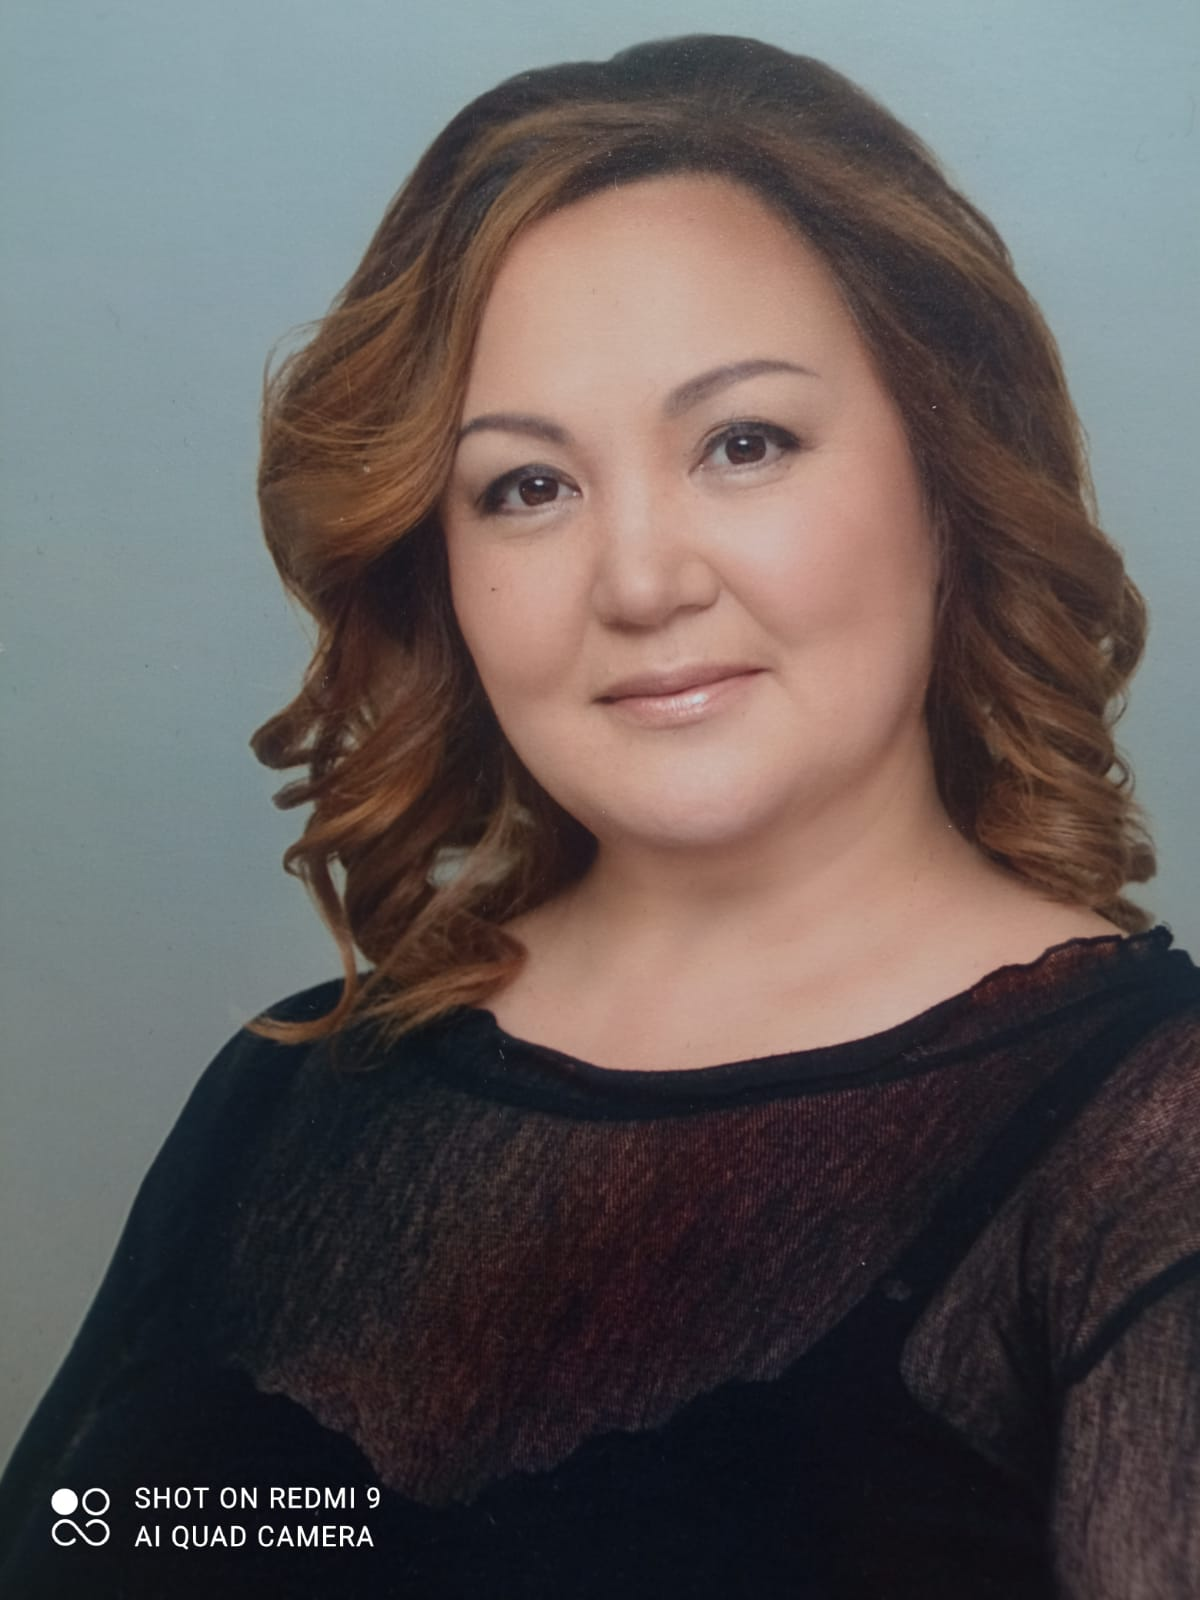
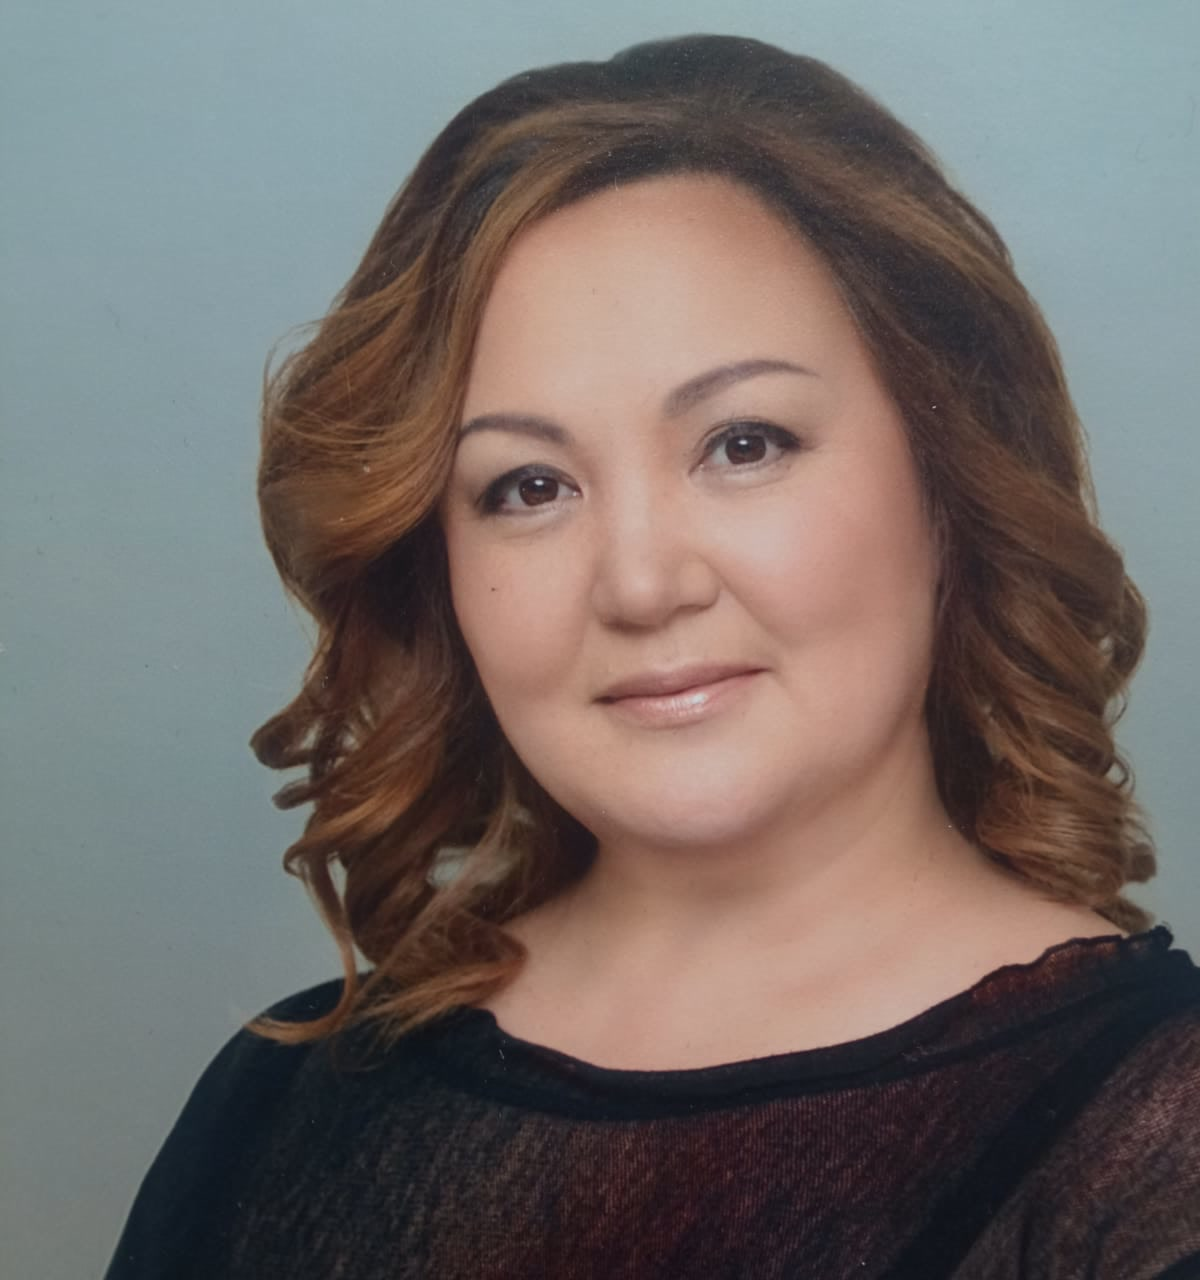
Show Yakutsk time and crop the hero portrait
Format the event clock in Asia/Yakutsk so 18:00 does not become 09:00
in UTC, and crop the opening photo so the camera watermark is gone.

diff --git a/script.js b/script.js
@@ -54,21 +54,56 @@ function pad(n) {
   return String(n).padStart(2, "0");
 }
 
+function yakutskParts(date) {
+  if (Number.isNaN(date.getTime())) return null;
+  const parts = new Intl.DateTimeFormat("en-GB", {
+    timeZone: "Asia/Yakutsk",
+    year: "numeric",
+    month: "numeric",
+    day: "numeric",
+    hour: "2-digit",
+    minute: "2-digit",
+    weekday: "long",
+    hourCycle: "h23",
+  }).formatToParts(date);
+  const get = (type) => parts.find((part) => part.type === type)?.value || "";
+  const weekdayEn = get("weekday").toLowerCase();
+  const weekdayIndex = [
+    "sunday",
+    "monday",
+    "tuesday",
+    "wednesday",
+    "thursday",
+    "friday",
+    "saturday",
+  ].indexOf(weekdayEn);
+  return {
+    year: Number(get("year")),
+    month: Number(get("month")) - 1,
+    day: Number(get("day")),
+    hour: Number(get("hour")),
+    minute: Number(get("minute")),
+    weekday: weekdayIndex >= 0 ? WEEKDAYS[weekdayIndex] : "",
+  };
+}
+
 function formatLongDate(date) {
-  if (Number.isNaN(date.getTime())) return "";
-  const weekday = WEEKDAYS[date.getDay()];
-  const labeled = weekday.charAt(0).toUpperCase() + weekday.slice(1);
-  return `${labeled}, ${date.getDate()} ${MONTHS_GEN[date.getMonth()]} ${date.getFullYear()} г.`;
+  const parts = yakutskParts(date);
+  if (!parts) return "";
+  const labeled = parts.weekday.charAt(0).toUpperCase() + parts.weekday.slice(1);
+  return `${labeled}, ${parts.day} ${MONTHS_GEN[parts.month]} ${parts.year} г.`;
 }
 
 function formatShortDate(date) {
-  if (Number.isNaN(date.getTime())) return "";
-  return `${date.getDate()} ${MONTHS_GEN[date.getMonth()]} ${date.getFullYear()} г.`;
+  const parts = yakutskParts(date);
+  if (!parts) return "";
+  return `${parts.day} ${MONTHS_GEN[parts.month]} ${parts.year} г.`;
 }
 
 function formatTime(date) {
-  if (Number.isNaN(date.getTime())) return "";
-  return `${pad(date.getHours())}:${pad(date.getMinutes())}`;
+  const parts = yakutskParts(date);
+  if (!parts) return "";
+  return `${pad(parts.hour)}:${pad(parts.minute)}`;
 }
 
 function plural(n, one, few, many) {
@@ -129,11 +164,12 @@ function applyCopy() {
 
 function renderCalendar(date) {
   const root = document.getElementById("calendar");
-  if (!root || Number.isNaN(date.getTime())) return;
+  const parts = yakutskParts(date);
+  if (!root || !parts) return;
 
-  const year = date.getFullYear();
-  const month = date.getMonth();
-  const marked = date.getDate();
+  const year = parts.year;
+  const month = parts.month;
+  const marked = parts.day;
   const first = new Date(year, month, 1);
   const startWeekday = (first.getDay() + 6) % 7;
   const daysInMonth = new Date(year, month + 1, 0).getDate();
@@ -226,24 +262,7 @@ function bindMaps() {
     wrap.hidden = false;
   }
 
-  if (links && (venue.yandex || venue.twogis)) {
-    const parts = [];
-    if (venue.yandex) {
-      parts.push(
-        `<a class="text-link" href="${venue.yandex}" target="_blank" rel="noreferrer">Посмотреть на карте</a>`
-      );
-    }
-    if (venue.yandex && venue.twogis) {
-      parts.push('<span aria-hidden="true"> · </span>');
-    }
-    if (venue.twogis) {
-      parts.push(
-        `<a class="text-link" href="${venue.twogis}" target="_blank" rel="noreferrer">Маршрут в 2ГИС</a>`
-      );
-    }
-    links.innerHTML = parts.join("");
-    links.hidden = false;
-  }
+  if (links) links.hidden = true;
 
   if (note) note.hidden = hasExactPlace;
 }

diff --git a/styles.css b/styles.css
@@ -270,7 +270,12 @@ h1 {
 .hero-veil {
   position: absolute;
   inset: 0;
-  background: linear-gradient(180deg, rgba(18, 8, 12, 0.08) 20%, rgba(18, 8, 12, 0.78));
+  background: linear-gradient(
+    180deg,
+    rgba(18, 8, 12, 0.04) 28%,
+    rgba(18, 8, 12, 0.42) 62%,
+    rgba(18, 8, 12, 0.82) 100%
+  );
 }
 
 .hero-copy {
@@ -308,7 +313,7 @@ h1 {
   font-weight: 400;
   letter-spacing: 0.16em;
   margin: 12px 0 0;
-  color: rgba(246, 239, 230, 0.9);
+  color: rgba(246, 239, 230, 0.92);
 }
 
 .scroll-hint {
@@ -316,7 +321,7 @@ h1 {
   font-size: 0.68rem;
   letter-spacing: 0.28em;
   text-transform: uppercase;
-  color: rgba(246, 239, 230, 0.7);
+  color: rgba(246, 239, 230, 0.82);
 }
 
 .plate-photo {

diff --git a/index.html b/index.html
@@ -15,7 +15,7 @@
       href="https://fonts.googleapis.com/css2?family=Cormorant+Garamond:ital,wght@0,400;0,500;0,600;1,400;1,600&family=Manrope:wght@400;500;600&family=Marck+Script&display=swap"
       rel="stylesheet"
     />
-    <link rel="stylesheet" href="styles.css?v=2" />
+    <link rel="stylesheet" href="styles.css?v=3" />
   </head>
   <body>
     <div class="stage">
@@ -142,6 +142,6 @@
       </button>
     </div>
     <script src="config.js"></script>
-    <script src="script.js?v=2"></script>
+    <script src="script.js?v=3"></script>
   </body>
 </html>
